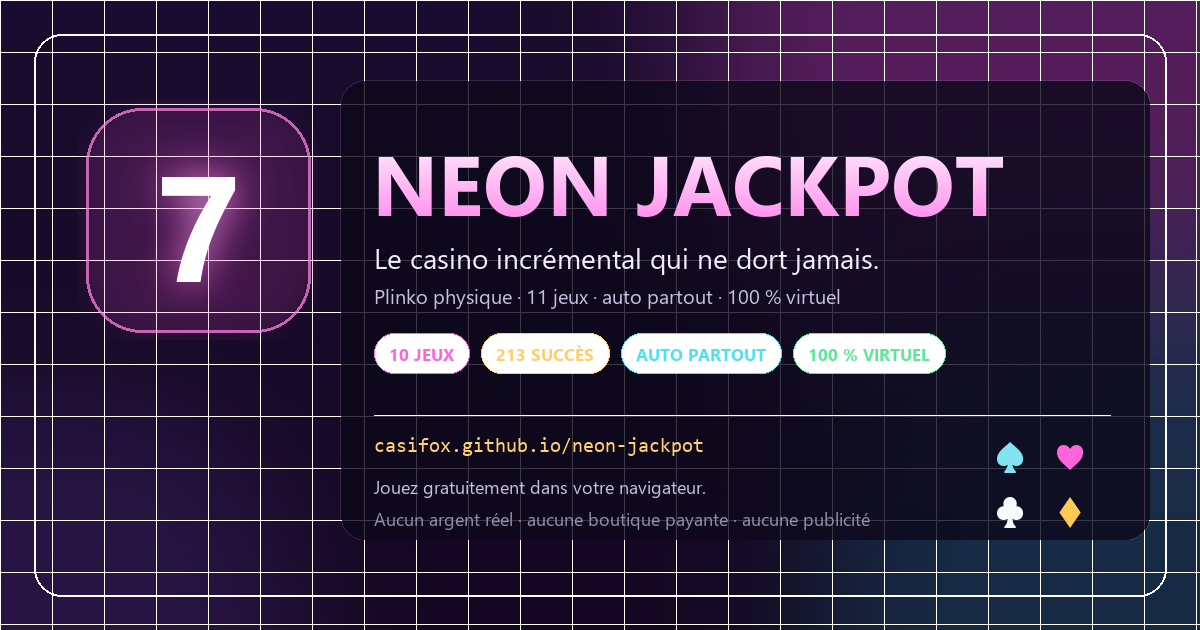
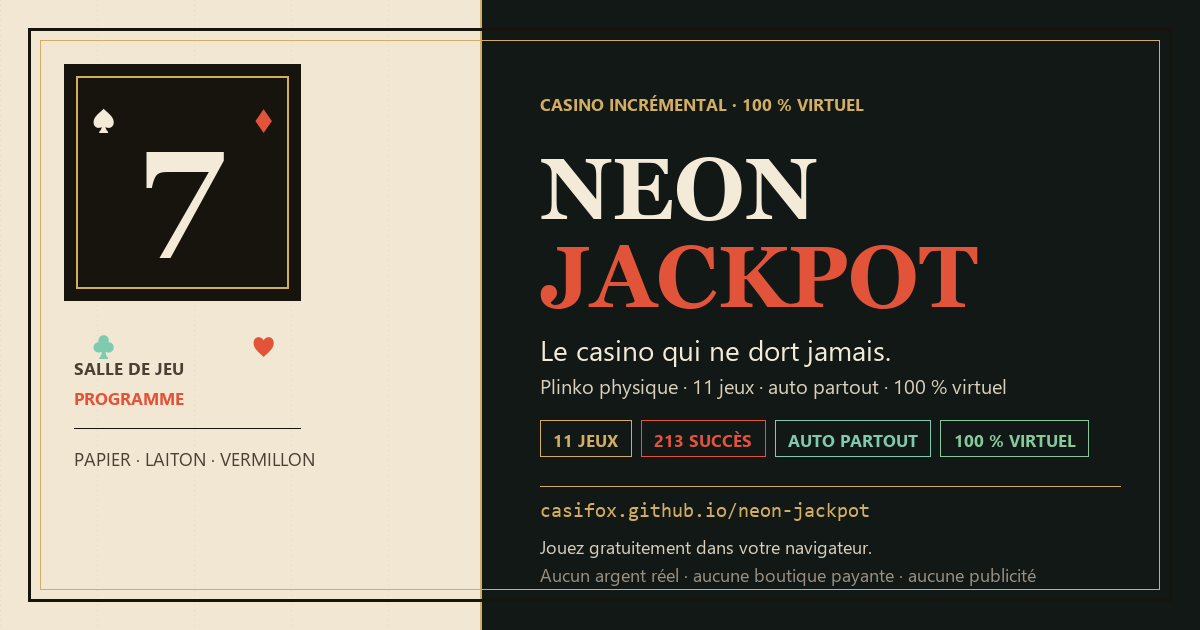
design: apercu social aligne sur la direction 2.0

diff --git a/tools/make-og.py b/tools/make-og.py
@@ -1,11 +1,18 @@
 #!/usr/bin/env python3
-"""Génère l'image d'aperçu social 1200x630 de Neon Jackpot."""
+"""Génère l'image d'aperçu social 1200x630 de Neon Jackpot (direction 2.0)."""
 from PIL import Image, ImageDraw, ImageFont, ImageFilter
 import os
 
 W, H = 1200, 630
 OUT = os.path.join(os.path.dirname(__file__), "..", "assets", "og.png")
 FONTS = os.path.join(os.environ.get("WINDIR", r"C:\Windows"), "Fonts")
+
+PAPER = (241, 231, 211)
+PAPER_DEEP = (230, 217, 192)
+INK = (23, 19, 13)
+INK_SOFT = (74, 64, 51)
+CREAM = (243, 234, 216)
+
 
 def font(name, size):
     for candidate in (name, "segoeuib.ttf", "segoeui.ttf", "arialbd.ttf"):
@@ -17,108 +24,90 @@ def font(name, size):
                 pass
     return ImageFont.load_default()
 
-title_font = font("segoeuib.ttf", 84)
+
+def serif(size):
+    for candidate in ("bodoni.ttf", "BOD_B.TTF", "georgiab.ttf", "timesbd.ttf"):
+        path = os.path.join(FONTS, candidate)
+        if os.path.exists(path):
+            try:
+                return ImageFont.truetype(path, size)
+            except Exception:
+                pass
+    return font("georgiab.ttf", size)
+
+
+title_font = serif(86)
 sub_font = font("segoeui.ttf", 28)
 desc_font = font("segoeui.ttf", 20)
 chip_font = font("segoeuib.ttf", 17)
 mono_font = font("consola.ttf", 20)
 small_font = font("segoeui.ttf", 18)
 
-img = Image.new("RGB", (W, H), "#07070f")
-px = img.load()
-for y in range(H):
-    t = y / H
-    px_color = (
-        int(7 + 20 * (1 - t) + 14 * t),
-        int(7 + 6 * (1 - t)),
-        int(15 + 34 * (1 - t) + 18 * t),
-    )
-    for x in range(W):
-        px[x, y] = px_color
+img = Image.new("RGB", (W, H), PAPER)
 
-# halos
-glow = Image.new("RGBA", (W, H), (0, 0, 0, 0))
-gd = ImageDraw.Draw(glow)
-for cx, cy, rad, color in [
-    (980, 80, 340, (255, 79, 216, 65)),
-    (1060, 580, 300, (34, 211, 238, 44)),
-    (100, 600, 260, (139, 92, 246, 40)),
-]:
-    gd.ellipse((cx - rad, cy - rad, cx + rad, cy + rad), fill=color)
-glow = glow.filter(ImageFilter.GaussianBlur(90))
-img = Image.alpha_composite(img.convert("RGBA"), glow).convert("RGB")
-draw = ImageDraw.Draw(img)
+# Trame papier très légère
+for y in range(0, H, 5):
+    for x in range(0, W, 97):
+        img.putpixel((x, y), PAPER_DEEP)
 
-# grille
-for x in range(0, W, 52):
-    draw.line([(x, 0), (x, H)], fill=(255, 255, 255, 4), width=1)
-for y in range(0, H, 52):
-    draw.line([(0, y), (W, y)], fill=(255, 255, 255, 4), width=1)
-
-# cadre
-draw.rounded_rectangle((34, 34, W - 34, H - 34), radius=28, outline=(255, 255, 255, 20), width=2)
-
-# logo 7 avec halo
-logo = Image.new("RGBA", (240, 240), (0, 0, 0, 0))
-ld = ImageDraw.Draw(logo)
-ld.rounded_rectangle((8, 8, 232, 232), radius=56, fill=(255, 79, 216, 22), outline=(255, 130, 225, 190), width=3)
-ld.text((120, 120), "7", font=font("segoeuib.ttf", 150), fill=(255, 255, 255, 255), anchor="mm")
-logo_glow = logo.filter(ImageFilter.GaussianBlur(20))
-base = img.crop((78, 100, 318, 340)).convert("RGBA")
-base = Image.alpha_composite(base, logo_glow)
-base = Image.alpha_composite(base, logo)
-img.paste(base.convert("RGB"), (78, 100))
-
-# panneau de texte
-panel = Image.new("RGBA", (810, 460), (0, 0, 0, 0))
+# Bandeau sombre à droite
+panel = Image.new("RGBA", (720, H), (0, 0, 0, 0))
 pd = ImageDraw.Draw(panel)
-pd.rounded_rectangle((0, 0, 810, 460), radius=26, fill=(12, 8, 26, 205), outline=(255, 255, 255, 28), width=1)
-img.paste(panel.convert("RGB"), (340, 80), panel)
+pd.rectangle((0, 0, 720, H), fill=(18, 24, 21, 255))
+img.paste(panel.convert("RGB"), (480, 0))
 
-# titre dégradé
-title = "NEON JACKPOT"
-mask = Image.new("L", (760, 112), 0)
-md = ImageDraw.Draw(mask)
-md.text((0, 0), title, font=title_font, fill=255)
-grad = Image.new("RGB", (760, 112), "#ffffff")
-gp = grad.load()
-for x in range(760):
-    t = x / 760
-    for y in range(112):
-        tt = y / 112
-        r = int(255 * (1 - tt) + 255 * tt)
-        g = int(255 * (1 - tt) + 125 * tt)
-        b = int(255 * (1 - tt) + 235 * tt)
-        gp[x, y] = (r, g, b)
-img.paste(grad, (372, 125), mask)
+# Filets laiton
 draw = ImageDraw.Draw(img)
+for offset, alpha in ((0, 255), (10, 255), (20, 255)):
+    draw.line([(480, 0), (480, H)], fill=(211, 174, 98), width=2)
 
-draw.text((374, 238), "Le casino incrémental qui ne dort jamais.", font=sub_font, fill=(242, 236, 255))
-draw.text((374, 282), "Plinko physique · 11 jeux · auto partout · 100 % virtuel", font=desc_font, fill=(201, 191, 224))
+draw.rectangle((28, 28, W - 29, H - 29), outline=INK, width=3)
+draw.rectangle((40, 40, W - 41, H - 41), outline=(211, 174, 98), width=1)
 
-# chips
+# Logo : plaque d'encre et 7 crème
+draw.rectangle((64, 64, 300, 300), fill=INK)
+draw.rectangle((76, 76, 288, 288), outline=(211, 174, 98), width=2)
+draw.text((182, 178), "7", font=serif(150), fill=CREAM, anchor="mm")
+
+# Suites autour du logo
+draw.text((92, 96), "♠", font=font("seguisym.ttf", 34), fill=CREAM)
+draw.text((252, 96), "♦", font=font("seguisym.ttf", 34), fill=(226, 84, 58))
+draw.text((92, 322), "♣", font=font("seguisym.ttf", 34), fill=(127, 203, 176))
+draw.text((252, 322), "♥", font=font("seguisym.ttf", 34), fill=(226, 84, 58))
+
+# Texte principal sur le bandeau
+draw.text((540, 92), "CASINO INCRÉMENTAL · 100 % VIRTUEL", font=chip_font, fill=(211, 174, 98))
+draw.text((540, 140), "NEON", font=title_font, fill=CREAM)
+draw.text((540, 228), "JACKPOT", font=title_font, fill=(226, 84, 58))
+
+draw.text((540, 330), "Le casino qui ne dort jamais.", font=sub_font, fill=CREAM)
+draw.text((540, 372), "Plinko physique · 11 jeux · auto partout · 100 % virtuel", font=desc_font, fill=(217, 207, 186))
+
+# Pastilles
 chips = [
-    ("10 JEUX", (255, 100, 220)),
-    ("213 SUCCÈS", (255, 206, 105)),
-    ("AUTO PARTOUT", (80, 225, 240)),
-    ("100 % VIRTUEL", (95, 230, 150)),
+    ("11 JEUX", (211, 174, 98)),
+    ("213 SUCCÈS", (226, 84, 58)),
+    ("AUTO PARTOUT", (127, 203, 176)),
+    ("100 % VIRTUEL", (134, 201, 155)),
 ]
-x = 374
-y = 333
+x = 540
+y = 420
 for label, color in chips:
     tw = draw.textlength(label, font=chip_font)
-    draw.rounded_rectangle((x, y, x + tw + 30, y + 40), radius=20, fill=(255, 255, 255, 10), outline=color, width=1)
-    draw.text((x + 15, y + 9), label, font=chip_font, fill=color)
-    x += tw + 42
+    draw.rectangle((x, y, x + tw + 26, y + 36), outline=color, width=1)
+    draw.text((x + 13, y + 8), label, font=chip_font, fill=color)
+    x += tw + 36
 
-draw.line([(374, 415), (1110, 415)], fill=(255, 255, 255, 28), width=1)
-draw.text((374, 437), "casifox.github.io/neon-jackpot", font=mono_font, fill=(255, 210, 110))
-draw.text((374, 474), "Jouez gratuitement dans votre navigateur.", font=small_font, fill=(201, 191, 224))
-draw.text((374, 506), "Aucun argent réel · aucune boutique payante · aucune publicité", font=small_font, fill=(151, 141, 174))
+draw.line([(540, 486), (1120, 486)], fill=(211, 174, 98), width=1)
+draw.text((540, 502), "casifox.github.io/neon-jackpot", font=mono_font, fill=(211, 174, 98))
+draw.text((540, 534), "Jouez gratuitement dans votre navigateur.", font=small_font, fill=(217, 207, 186))
+draw.text((540, 562), "Aucun argent réel · aucune boutique payante · aucune publicité", font=small_font, fill=(154, 145, 131))
 
-# symboles
-for i, (sym, col) in enumerate([("♠", "#80e5f0"), ("♥", "#ff64dc"), ("♣", "#f8fafc"), ("♦", "#ffc857")]):
-    draw.text((995 + (i % 2) * 60, 425 + (i // 2) * 55), sym, font=font("segoeuib.ttf", 44), fill=col)
+# Signature typographique
+draw.text((74, 356), "SALLE DE JEU", font=chip_font, fill=INK_SOFT)
+draw.text((74, 386), "PROGRAMME", font=chip_font, fill=(226, 84, 58))
+draw.line([(74, 428), (300, 428)], fill=INK, width=1)
+draw.text((74, 446), "PAPIER · LAITON · VERMILLON", font=small_font, fill=INK_SOFT)
 
 img.save(OUT, "PNG")
 print(f"Image générée : {os.path.abspath(OUT)}")
